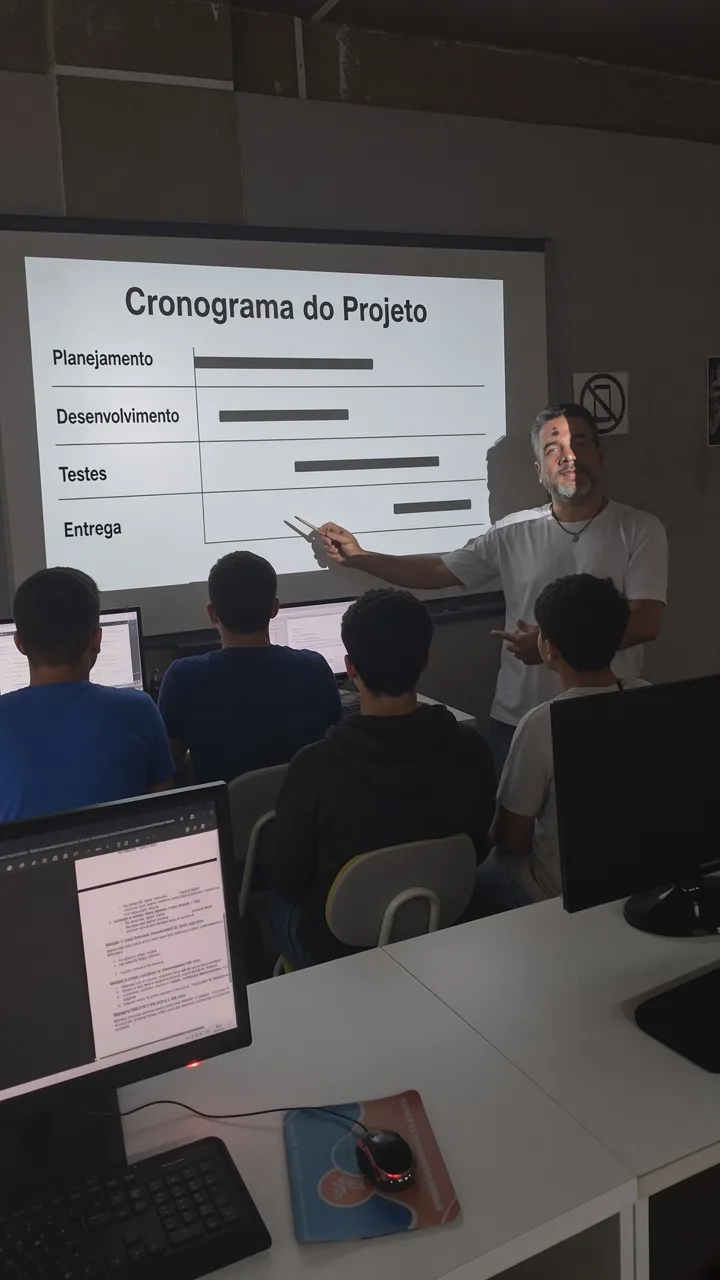
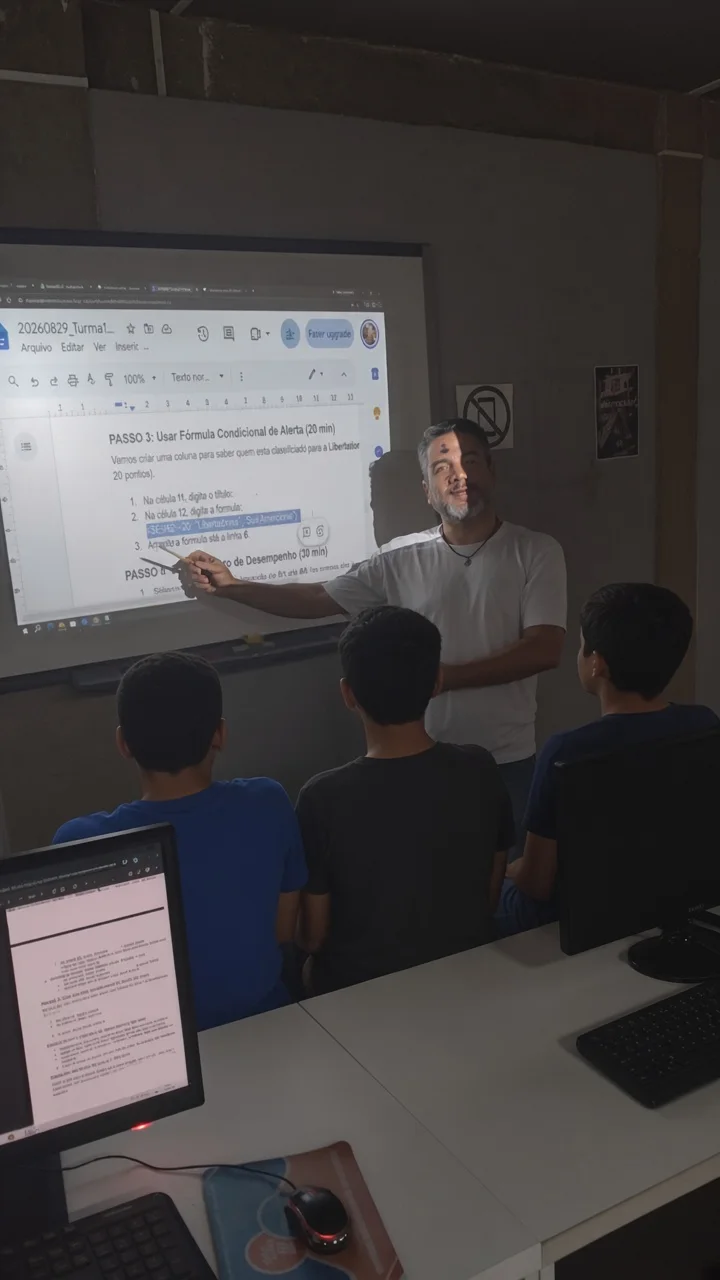
Usa a foto original da aula, com alunos de costas sem identificação.

diff --git a/index.html b/index.html
@@ -190,9 +190,9 @@
                 </div>
                 <div class="hero-visual">
                     <picture>
-                        <source srcset="assets/FotoSite.webp?v=aula3" type="image/webp">
+                        <source srcset="assets/FotoSite.webp?v=aula4" type="image/webp">
                         <img
-                            src="assets/FotoSite.jpg?v=aula3"
+                            src="assets/FotoSite.jpg?v=aula4"
                             alt="Paulo Teodoro Pinto Júnior (Papijunior) — aula de gestão de projetos com cronograma Gantt no PapiLAB"
                             width="720"
                             height="1280"

diff --git a/en/index.html b/en/index.html
@@ -187,9 +187,9 @@
                 </div>
                 <div class="hero-visual">
                     <picture>
-                        <source srcset="assets/FotoSite.webp?v=aula3" type="image/webp">
+                        <source srcset="assets/FotoSite.webp?v=aula4" type="image/webp">
                         <img
-                            src="assets/FotoSite.jpg?v=aula3"
+                            src="assets/FotoSite.jpg?v=aula4"
                             alt="Paulo Teodoro Pinto Júnior (papijunior) — teaching project management with a Gantt chart at PapiLAB"
                             width="720"
                             height="1280"
